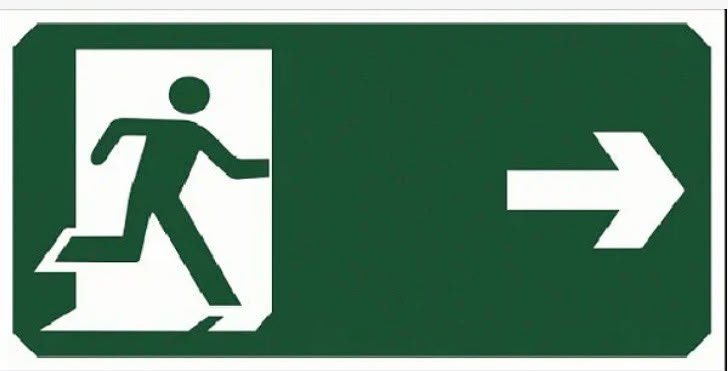
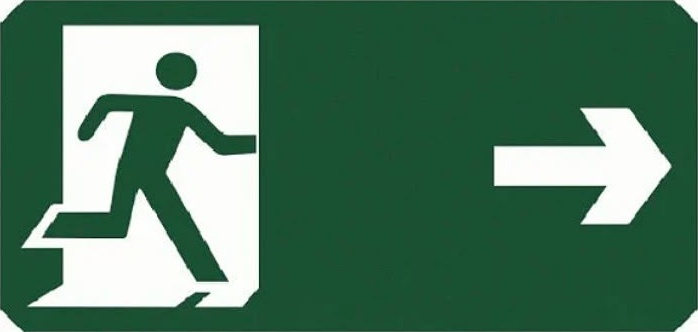
fix: recorte milimetrico da placa verde removendo bordas brancas e ajustando proporcao nativa

Changed region(s): [[0.0, 0.0, 1.0, 1.0]]

diff --git a/css/style.css b/css/style.css
@@ -702,26 +702,25 @@ section {
 
 .photo {
   left: 9%;
-  width: 44%;
+  width: 42%;
   top: 76%;
-  height: 14%;
+  aspect-ratio: 698 / 332;
+  height: auto;
   border-radius: 4px;
   padding: 0;
-  display: flex;
-  align-items: center;
-  justify-content: center;
+  display: block;
   background: transparent;
-  box-shadow: 0 24px 30px -16px rgba(0, 0, 0, 0.7);
+  box-shadow: 0 20px 30px -12px rgba(0, 0, 0, 0.7);
   overflow: hidden;
 }
 
+.photo picture,
 .photo img {
   width: 100%;
   height: 100%;
-  object-fit: cover;
+  object-fit: fill;
   display: block;
   border-radius: 4px;
-  filter: drop-shadow(0 0 8px rgba(180, 255, 200, 0.35));
 }
 
 .wall-tag {

diff --git a/index.html b/index.html
@@ -108,7 +108,7 @@
           <div class="sign photo">
             <picture>
               <source srcset="assets/placa-verde.webp" type="image/webp">
-              <img src="assets/placa-verde.jpg" alt="Placa fotoluminescente de rota de fuga e saída de emergência" width="728" height="371" style="width:100%;height:100%;object-fit:contain;border-radius:3px">
+              <img src="assets/placa-verde.jpg" alt="Placa fotoluminescente de rota de fuga e saída de emergência" width="698" height="332">
             </picture>
           </div>
           <div class="wall-tag"><i></i>ACM · Acrílico · Aço · PS · PVC</div>
